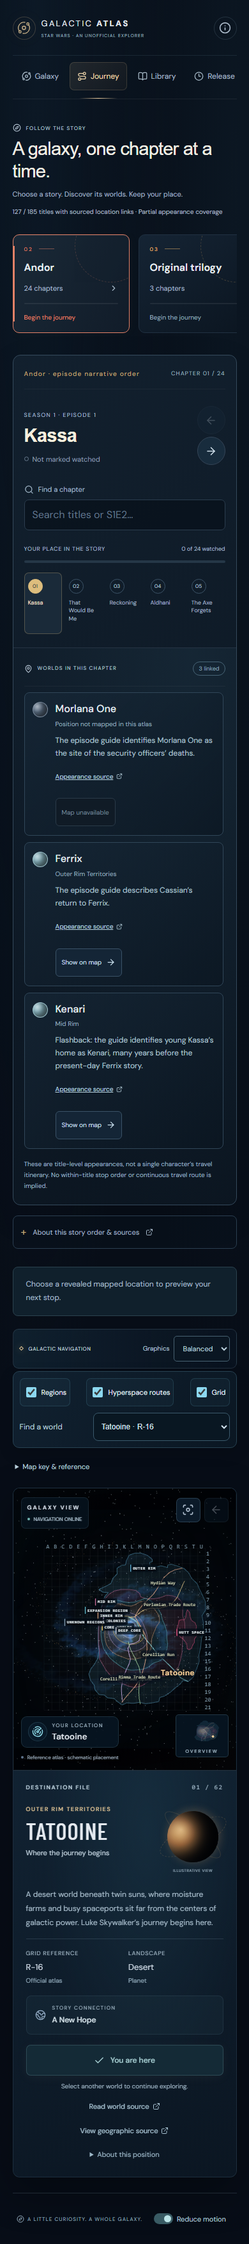
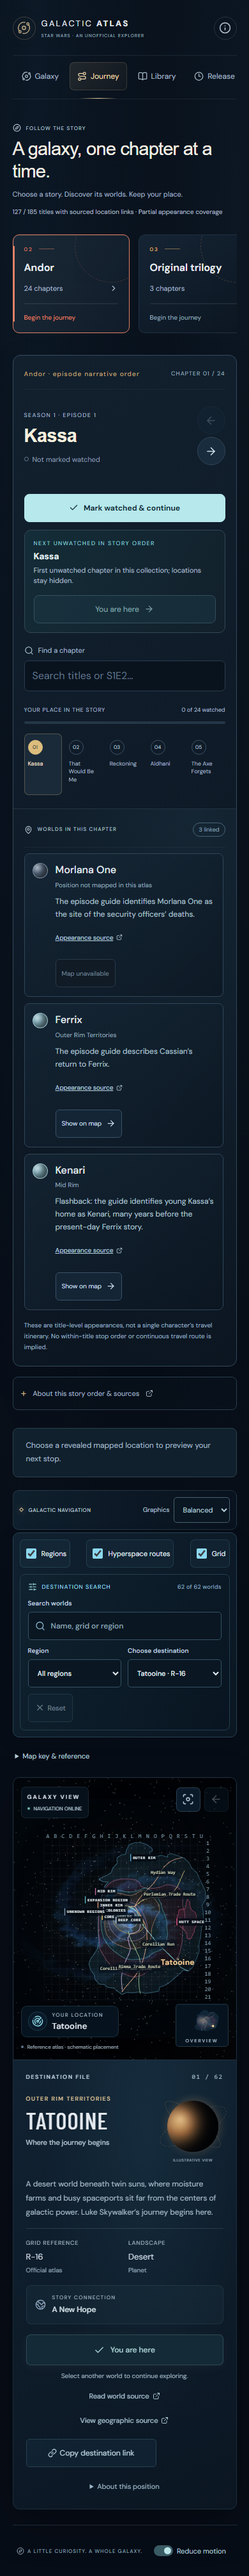
Integrate latest navigation and progress features with visual polish

diff --git a/src/App.tsx b/src/App.tsx
@@ -278,7 +278,7 @@ export default function App() {
 
         <div className={`map-stage ${phase === 'warping' ? 'is-warping' : 'is-navigating'}`} data-quality={quality}>
 
-          <div className="galaxy-canvas">{galaxyMounted && <Suspense fallback={<div style={{padding:32,color:'#8daabb'}}>Charting the galaxy…</div>}><Galaxy worlds={mapWorlds} selectedId={currentId} previewId={previewId} targetId={targetId} phase={phase} reducedMotion={reducedMotion} quality={quality} regionsVisible={regionsVisible} routesVisible={routesVisible} gridVisible={gridVisible} onSelect={selectWorld} onArrive={arrive} resetKey={resetKey}/></Suspense>}</div>
+          <div className="galaxy-canvas">{galaxyMounted && <Suspense fallback={<div className="galaxy-loading" role="status"><Orbit size={32} aria-hidden="true"/><strong>Charting the galaxy…</strong><span>Preparing your navigation view</span></div>}><Galaxy worlds={mapWorlds} selectedId={currentId} previewId={previewId} targetId={targetId} phase={phase} reducedMotion={reducedMotion} quality={quality} regionsVisible={regionsVisible} routesVisible={routesVisible} gridVisible={gridVisible} onSelect={selectWorld} onArrive={arrive} resetKey={resetKey}/></Suspense>}</div>
 
           <div className="map-heading"><span className="eyebrow">GALAXY VIEW</span><span className="map-coordinate"><span className="live-dot"/> {phase === 'warping' ? 'HYPERSPACE TRANSIT' : 'NAVIGATION ONLINE'}</span></div>
 

diff --git a/src/visual-upgrades.css b/src/visual-upgrades.css
@@ -28,3 +28,5 @@ main{padding-top:28px}.page-intro{align-items:flex-end;margin-bottom:34px}.page-
 @media(prefers-reduced-motion:reduce){.planet-orbit,.galaxy-loading svg{animation:none}.destination-card:hover,.jump-button:hover{transform:none}}
 /* Keep single-icon arrival and multi-icon jump labels centered together. */
 .jump-button>svg:first-child,.jump-button>svg:last-child,.jump-button>svg:last-child:not(:first-child){margin:0}
+/* Shared destination actions span the mobile dossier, like source links. */
+.destination-share{grid-column:1/-1;min-width:0}.destination-share button{width:100%;border-radius:7px}.destination-share [role=status]:empty{display:none}

diff --git a/evidence/ui-polish-verification.md b/evidence/ui-polish-verification.md
@@ -1,12 +1,12 @@
 # Interface polish verification — November 7, 2026
 
-Source: `feat/ui-visual-motion-polish`, based on `d0921ac`. Three implementation agents split shell/dossier, journey/world stories, and library/timeline/watchlist; integration added cartographic control styling. No catalog, geography, source relationships, or renderer data changed.
+Source: `feat/ui-visual-motion-polish`, rebased onto `a527f6d`. Three implementation agents split shell/dossier, journey/world stories, and library/timeline/watchlist; integration added cartographic control styling. No catalog, geography, source relationships, or renderer data changed.
 
 The interface now has consistent navigation icons and selected states, stronger typography and panel hierarchy, improved original planet/record artwork, collection progress indicators, clearer source disclosures, and restrained card/reveal/loading motion. The manual Reduce motion control is available in every view; CSS effects honor that setting and the system preference.
 
 ## Checks actually run
 
-- `npm run build`: passed TypeScript and Vite. Existing large-chunk warning remains (approximately 555 kB app and 1,035 kB lazy galaxy, before gzip).
+- `npm run build`: passed TypeScript and Vite. Existing large-chunk warning remains (approximately 563 kB app and 1,035 kB lazy galaxy, before gzip).
 - `npm run check:icm` and `git diff --check`: passed.
 - Existing platform, library accessibility, journey accessibility, visual UI, visual lifecycle and reference-map browser scripts: passed against this checkout on port 4183. Scratch copies substituted the hardcoded port; relocated journey test imports were adjusted in the scratch copy. Port 4173 belonged to a separate session and was not used for this batch.
 - Chromium 158 with software WebGL: desktop 1440px and emulated phone 390px/320px; no overflow in tested views. Library filtering, pagination, progress persistence/export, empty states, record/source disclosure, keyboard access, chapter navigation and reveal boundaries passed.
@@ -16,3 +16,9 @@ The interface now has consistent navigation icons and selected states, stronger 
 ## Limits
 
 Desktop browser emulation is not physical-device validation or a frame-rate benchmark. Software WebGL emitted ReadPixels stall warnings. This is not a complete WCAG audit. The existing bounded catalog, partial appearance coverage, schematic placement and illustrative artwork caveats remain. This batch has not been deployed.
+
+## Concurrent update integration
+
+Main advanced during this batch with world search, shareable destinations, journey progress and safe watch backup import. Rebased onto that update, preserving both its functionality/styles and this visual pass. The integrated production build passed again.
+
+Post-rebase platform, visual UI, reference-map, journey accessibility/progress, world explorer, destination-link and progress-import suites passed. The share action was aligned across the mobile dossier; a final 320px probe and production build passed after that fix. Selected screenshots were refreshed against the combined version.
